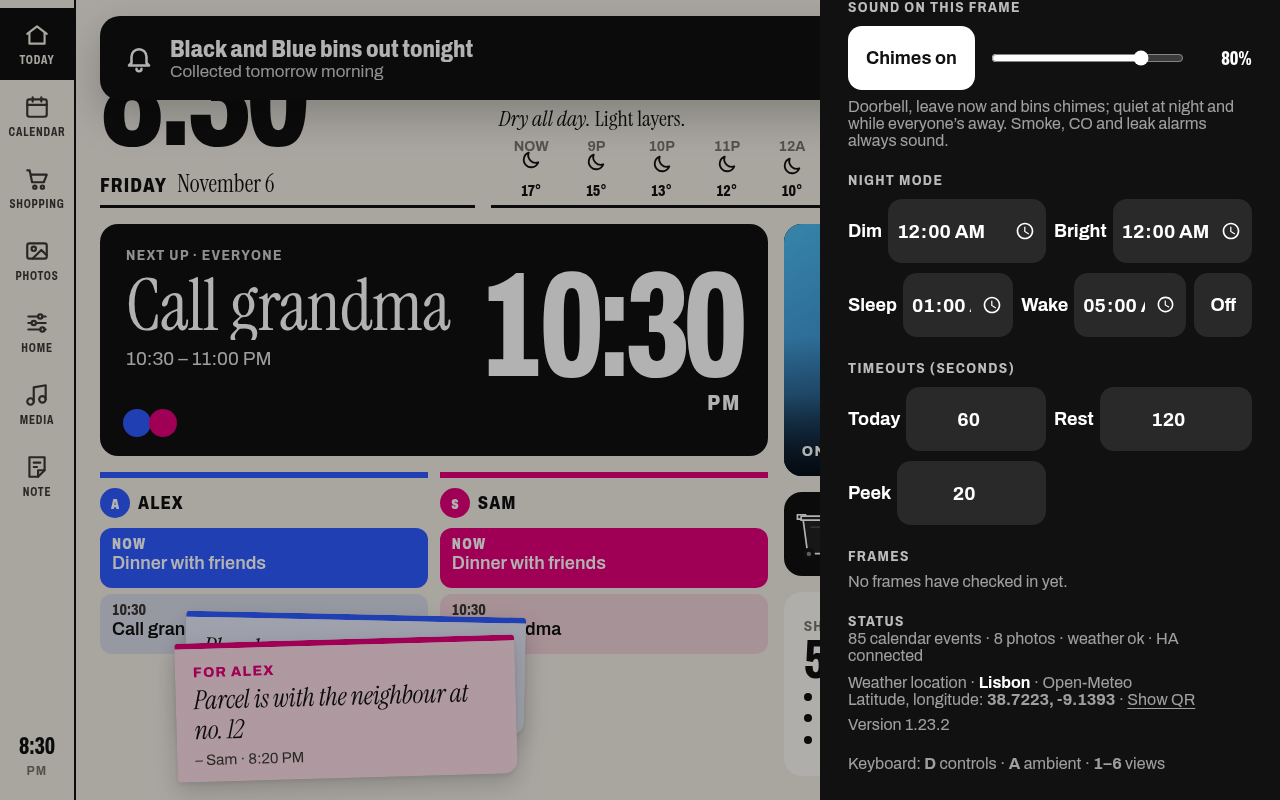
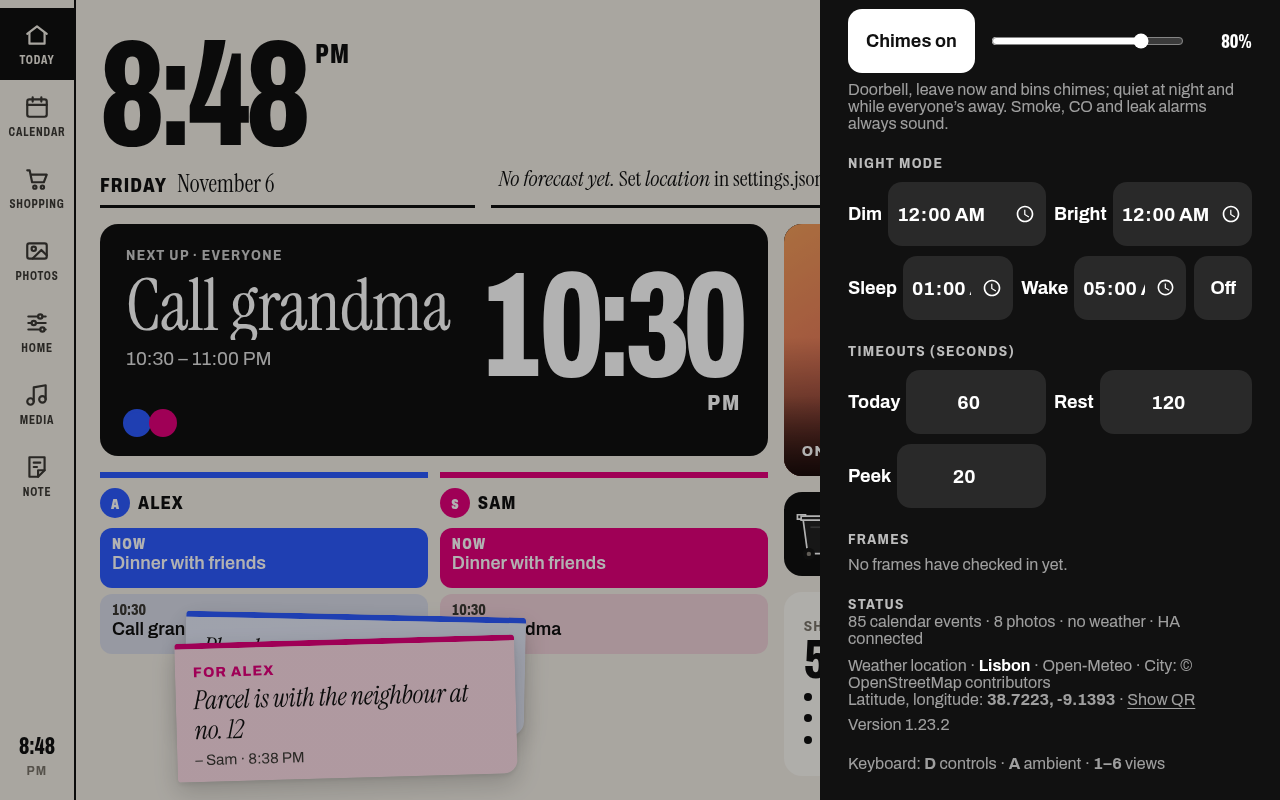
Resolve weather city automatically from configured coordinates

diff --git a/frontend/js/system.js b/frontend/js/system.js
@@ -234,7 +234,7 @@
     var url = 'https://www.openstreetmap.org/?mlat=' + encodeURIComponent(loc.lat) + '&mlon=' + encodeURIComponent(loc.lon) + '#map=12/' + encodeURIComponent(loc.lat) + '/' + encodeURIComponent(loc.lon);
     var name = typeof loc.name === 'string' ? loc.name.trim() : '';
     return '<p>Weather location · ' + (name ? '<b class="demo-weather-city">' + App.esc(name) + '</b> · ' : '') +
-      'Open-Meteo<br>Latitude, longitude: <b>' + App.esc(coords) + '</b> · ' +
+      'Open-Meteo' + (name ? ' · City: © OpenStreetMap contributors' : '') + '<br>Latitude, longitude: <b>' + App.esc(coords) + '</b> · ' +
       '<button class="demo-weather-toggle" data-weather-map data-map-url="' + App.esc(url) + '" aria-expanded="false" aria-controls="demoWeatherMap">Show QR</button></p>' +
       '<div id="demoWeatherMap" hidden><p>Scan to view the map on your phone. Your phone needs internet access.</p>' +
       '<div class="demo-weather-qr" role="img" aria-label="QR code to open the weather location in OpenStreetMap"></div></div>';

diff --git a/src/geocoding.rs b/src/geocoding.rs
@@ -1,0 +1,167 @@
+//! Resolve the configured coordinates in the background; API reads never wait for the provider.
+
+use std::sync::Arc;
+use std::time::Duration;
+
+use anyhow::Context;
+use serde_json::Value;
+use tokio::sync::RwLock;
+
+use crate::{settings::Location, weather::Fetch};
+
+pub const NOMINATIM_URL: &str = "https://nominatim.openstreetmap.org/reverse";
+
+pub struct Geocoding {
+    url: String,
+    fetch: Fetch,
+    name: RwLock<Option<String>>,
+}
+
+impl Geocoding {
+    pub fn new(location: &Location, endpoint: &str, fetch: Fetch) -> anyhow::Result<Self> {
+        let url = reqwest::Url::parse_with_params(
+            endpoint,
+            [
+                ("lat", location.lat.to_string()),
+                ("lon", location.lon.to_string()),
+                ("format", "jsonv2".into()),
+                ("zoom", "10".into()),
+                ("addressdetails", "1".into()),
+                ("accept-language", "en".into()),
+            ],
+        )?;
+        Ok(Self {
+            url: url.into(),
+            fetch,
+            name: RwLock::new(None),
+        })
+    }
+
+    pub async fn name(&self) -> Option<String> {
+        self.name.read().await.clone()
+    }
+
+    /// Cache a successful lookup for this configuration's lifetime. Failures leave it intact.
+    pub async fn resolve(&self) -> anyhow::Result<()> {
+        if self.name().await.is_some() {
+            return Ok(());
+        }
+        let body = (self.fetch)(self.url.clone()).await?;
+        let value: Value = serde_json::from_str(&body)?;
+        let address = &value["address"];
+        let name = ["city", "town", "village", "municipality", "hamlet"]
+            .into_iter()
+            .filter_map(|key| address[key].as_str())
+            .map(str::trim)
+            .find(|name| !name.is_empty())
+            .context("reverse geocoding returned no city or locality")?;
+        *self.name.write().await = Some(name.to_owned());
+        Ok(())
+    }
+
+    /// A single background worker retries failures every 15 minutes, then stops after success.
+    pub fn start(self: &Arc<Self>) {
+        let source = self.clone();
+        tokio::spawn(async move {
+            loop {
+                if source.resolve().await.is_ok() {
+                    break;
+                }
+                tracing::warn!("weather location lookup unavailable; showing coordinates and retrying in 15 minutes");
+                tokio::time::sleep(Duration::from_secs(15 * 60)).await;
+            }
+        });
+    }
+}
+
+/// Nominatim requires an identifying User-Agent. No browser or third-party QR request is used.
+pub fn http_fetch() -> anyhow::Result<Fetch> {
+    let client = reqwest::Client::builder()
+        .timeout(Duration::from_secs(5))
+        .user_agent(concat!(
+            "home-hq/",
+            env!("CARGO_PKG_VERSION"),
+            " (https://github.com/PedDavid/home-kiosk)"
+        ))
+        .build()?;
+    Ok(Arc::new(move |url| {
+        let client = client.clone();
+        Box::pin(async move { Ok(client.get(url).send().await?.error_for_status()?.text().await?) })
+    }))
+}
+
+#[cfg(test)]
+mod tests {
+    use super::*;
+    use crate::settings::Settings;
+    use std::sync::atomic::{AtomicUsize, Ordering};
+
+    #[tokio::test]
+    async fn resolves_coordinates_and_caches_the_city() {
+        let calls = Arc::new(AtomicUsize::new(0));
+        let count = calls.clone();
+        let fetch: Fetch = Arc::new(move |url| {
+            count.fetch_add(1, Ordering::SeqCst);
+            Box::pin(async move {
+                let url = reqwest::Url::parse(&url).unwrap();
+                let params: std::collections::HashMap<_, _> = url.query_pairs().into_owned().collect();
+                assert_eq!(params["lat"], "38.7223");
+                assert_eq!(params["lon"], "-9.1393");
+                Ok(r#"{"address":{"city":"Lisbon","country":"Portugal"}}"#.into())
+            })
+        });
+        let settings = Settings::parse(crate::settings::EXAMPLE).unwrap();
+        let source = Arc::new(Geocoding::new(settings.location.as_ref().unwrap(), NOMINATIM_URL, fetch).unwrap());
+        assert_eq!(source.name().await, None);
+        source.resolve().await.unwrap();
+        source.resolve().await.unwrap();
+        assert_eq!(source.name().await.as_deref(), Some("Lisbon"));
+        assert_eq!(calls.load(Ordering::SeqCst), 1);
+
+        let mut app = crate::AppState::new(settings, None, Arc::new(chrono::Utc::now));
+        app.geocoding = Some(source);
+        use http_body_util::BodyExt;
+        use tower::ServiceExt;
+        let res = crate::router(app)
+            .oneshot(
+                axum::http::Request::get("/api/state")
+                    .body(axum::body::Body::empty())
+                    .unwrap(),
+            )
+            .await
+            .unwrap();
+        let state: Value = serde_json::from_slice(&res.into_body().collect().await.unwrap().to_bytes()).unwrap();
+        assert_eq!(state["weatherLocation"]["name"], "Lisbon");
+        assert_eq!(calls.load(Ordering::SeqCst), 1, "API reads use the cache");
+    }
+
+    #[tokio::test]
+    async fn failure_can_retry_and_small_settlements_are_supported() {
+        let calls = Arc::new(AtomicUsize::new(0));
+        let count = calls.clone();
+        let fetch: Fetch = Arc::new(move |_| {
+            let attempt = count.fetch_add(1, Ordering::SeqCst);
+            Box::pin(async move {
+                if attempt == 0 {
+                    anyhow::bail!("offline");
+                }
+                Ok(r#"{"address":{"village":"Sintra"}}"#.into())
+            })
+        });
+        let settings = Settings::parse(crate::settings::EXAMPLE).unwrap();
+        let source = Geocoding::new(settings.location.as_ref().unwrap(), NOMINATIM_URL, fetch).unwrap();
+        assert!(source.resolve().await.is_err());
+        assert_eq!(source.name().await, None);
+        source.resolve().await.unwrap();
+        assert_eq!(source.name().await.as_deref(), Some("Sintra"));
+    }
+
+    #[tokio::test]
+    async fn no_locality_does_not_invent_a_city() {
+        let fetch: Fetch = Arc::new(|_| Box::pin(async { Ok(r#"{"address":{"country":"Portugal"}}"#.into()) }));
+        let settings = Settings::parse(crate::settings::EXAMPLE).unwrap();
+        let source = Geocoding::new(settings.location.as_ref().unwrap(), NOMINATIM_URL, fetch).unwrap();
+        assert!(source.resolve().await.is_err());
+        assert_eq!(source.name().await, None);
+    }
+}

diff --git a/src/main.rs b/src/main.rs
@@ -4,7 +4,7 @@ use anyhow::Context;
 use home_hq::{
     AppState,
     calendar::{self, CalendarSource, ics::IcsSource},
-    router,
+    geocoding, router,
     settings::Settings,
     share::ImmichPublicUrl,
     tls, weather,
@@ -45,11 +45,27 @@ async fn main() -> anyhow::Result<()> {
     let clock: home_hq::Clock = Arc::new(chrono::Utc::now);
     let calendar = calendars(&settings, clock.clone())?;
     let weather = weather_from_env(&settings, clock.clone())?;
+    let geocoding = if weather.is_some() {
+        settings
+            .location
+            .as_ref()
+            .map(|location| {
+                let endpoint = std::env::var("HQ_GEOCODING_URL").unwrap_or_else(|_| geocoding::NOMINATIM_URL.into());
+                geocoding::Geocoding::new(location, &endpoint, geocoding::http_fetch()?).map(Arc::new)
+            })
+            .transpose()?
+    } else {
+        None
+    };
     let mut state = AppState::new(settings, key, clock)
         .with_calendar(calendar)
         .with_immich_public_url(immich_public_url);
     if let Some(w) = weather {
         state = state.with_weather(w);
+    }
+    if let Some(source) = geocoding {
+        source.start();
+        state.geocoding = Some(source);
     }
     state.device_auth = home_hq::device_auth::DeviceAuth::from_env()?.map(Arc::new);
     if state.device_auth.is_none() {

diff --git a/tests/api.rs b/tests/api.rs
@@ -62,17 +62,13 @@ async fn json_of(app: &Router, req: Request<Body>) -> Value {
 async fn state_exposes_configured_weather_location_without_fetching_weather() {
     for location in [
         json!({"lat": 0.0, "lon": -9.1393}),
-        json!({"name": "Lisbon", "lat": 38.7223, "lon": -9.1393}),
+        json!({"lat": 38.7223, "lon": -9.1393}),
         Value::Null,
     ] {
         let settings = Settings::parse(&json!({"location": location}).to_string()).unwrap();
         let app = router(AppState::new(settings, None, Arc::new(Utc::now)));
         let state = json_of(&app, get("/api/state")).await;
-        let mut expected = location;
-        if let Some(object) = expected.as_object_mut() {
-            object.entry("name").or_insert(Value::Null);
-        }
-        assert_eq!(state["weatherLocation"], expected);
+        assert_eq!(state["weatherLocation"], location);
     }
 }
 

diff --git a/src/lib.rs b/src/lib.rs
@@ -6,6 +6,7 @@ pub mod auth;
 pub mod calendar;
 pub mod demo;
 pub mod device_auth;
+pub mod geocoding;
 pub mod grant_store;
 pub mod immich;
 pub mod settings;
@@ -33,6 +34,7 @@ pub struct AppState {
     pub immich_public_url: Option<Arc<share::ImmichPublicUrl>>,
     /// Live weather. `None` keeps the demo forecast.
     pub weather: Option<Arc<weather::Weather>>,
+    pub geocoding: Option<Arc<geocoding::Geocoding>>,
     /// Calendar events. Not configured: `/api/calendar` serves the demo calendar.
     pub calendar: Arc<dyn calendar::CalendarSource>,
 }
@@ -48,6 +50,7 @@ impl AppState {
             clock,
             immich_public_url: None,
             weather: None,
+            geocoding: None,
             calendar: Arc::new(calendar::NotConfigured),
         }
     }

diff --git a/src/api.rs b/src/api.rs
@@ -95,6 +95,11 @@ pub fn router() -> Router<AppState> {
 
 async fn state(State(app): State<AppState>) -> Response {
     let mut state = app.demo.lock().await.state(app.now());
+    if let Some(source) = &app.geocoding
+        && state["weatherLocation"].is_object()
+    {
+        state["weatherLocation"]["name"] = json!(source.name().await);
+    }
     if let Some(immich) = app.photo_source().await {
         match immich.photos().await {
             Ok(photos) => state["photos"] = json!(photos),

diff --git a/src/demo.rs b/src/demo.rs
@@ -294,7 +294,6 @@ impl Demo {
             "notes": self.live_notes(now),
             "awayOffMinutes": self.settings.display.away_off_minutes,
             "weatherLocation": self.settings.location.as_ref().map(|loc| json!({
-                "name": loc.name,
                 "lat": loc.lat,
                 "lon": loc.lon,
             })),

diff --git a/src/settings.rs b/src/settings.rs
@@ -32,8 +32,6 @@ fn default_tz() -> String {
 
 #[derive(Debug, Clone, Deserialize)]
 pub struct Location {
-    #[serde(default)]
-    pub name: Option<String>,
     pub lat: f64,
     pub lon: f64,
     #[serde(default)]

diff --git a/PATCHES.md b/PATCHES.md
@@ -8,7 +8,7 @@ Keep this list short. Every patch here has to be carried across `git subtree pul
 | Quiet photo frame | `frontend/js/app.js`, `frontend/js/views/photos.js`, `frontend/js/views/ambient.js`, `frontend/css/views/ambient.css`, `frontend/js/views/notes.js`, `frontend/css/views/notes.css` | After eight idle seconds in Photos, show an edge-to-edge image without overlays; first tap restores photo controls. Daytime ambient mode is also image-only; night/off schedules remain active. |
 | Immich device pairing | `frontend/immich.html`, `frontend/js/immich-auth.js`, `frontend/js/sync.js`, `frontend/js/views/photos.js`, `frontend/css/views/photos.css`, `frontend/vite.config.js` | QR approval page and connection link; issued credentials remain on the backend. |
 | Offline fonts | `frontend/css/fonts.css`, `frontend/public/fonts/`, `frontend/index.html`, `frontend/m.html` | Serve Archivo and Instrument Serif locally so the LAN-only frame uses the intended type metrics; font licences are bundled |
-| Weather location in Display Controls | `frontend/js/system.js`, `frontend/js/sync.js`, `frontend/css/base.css` | Show the configured city label and coordinates, with a locally generated QR code to view the map on a phone. Reuses the bundled QR renderer in `frontend/js/share.js`. |
+| Weather location in Display Controls | `frontend/js/system.js`, `frontend/js/sync.js`, `frontend/css/base.css` | Show the automatically resolved city and configured coordinates, with a locally generated QR code to view the map on a phone. Reuses the bundled QR renderer in `frontend/js/share.js`. |
 | Frame grid sizing | `frontend/css/base.css`, `frontend/css/views/home.css` | Prevent intrinsic card widths from expanding the home grid beyond the 1280×800 frame |
 | Offline layout regression check | `frontend/tools/check-layout.mjs`, `frontend/package.json`, `frontend/package-lock.json` | Capture frame-sized screenshots and check font loading, clock spacing and card bounds without deployment |
 | Preserve photo colours at night | `frontend/css/base.css`, `frontend/js/app.js`, `frontend/tools/check-photo-colours.mjs`, `frontend/package.json` | Apply the night filter to UI regions rather than the shared view container, preserving slideshow and home-tile image colours. |

diff --git a/README.md b/README.md
@@ -71,10 +71,14 @@ empty `frontend/dist`.
 
 `GET /healthz` returns `ok` without a key.
 
-The Status debug section at the bottom of Display Controls shows the configured weather coordinates and optional city label from
-`settings.location.name` (for example, `"Lisbon"`). The label is configured alongside `lat` and
-`lon`, not looked up online. Click **Show QR** to reveal a locally generated QR code that opens the location in OpenStreetMap
-on a phone with internet access; displaying the label and QR needs no internet on the kiosk.
+The Status debug section at the bottom of Display Controls shows weather coordinates and a city
+resolved automatically from those coordinates by Nominatim (OpenStreetMap). The backend looks it
+up in the background and caches the name in memory until restart; unavailable lookups retry every
+15 minutes. The kiosk needs no internet. If the backend has no internet or restarts offline, the
+coordinates still appear. `HQ_WEATHER=demo` disables this lookup as well as live weather.
+`HQ_GEOCODING_URL` overrides the reverse-geocoding endpoint for self-hosting (Nominatim format).
+Backend egress to `nominatim.openstreetmap.org` is needed for the default provider.
+Click **Show QR** to reveal a locally generated QR code for opening the map on an online phone.
 
 ### Photo frame behaviour
 
